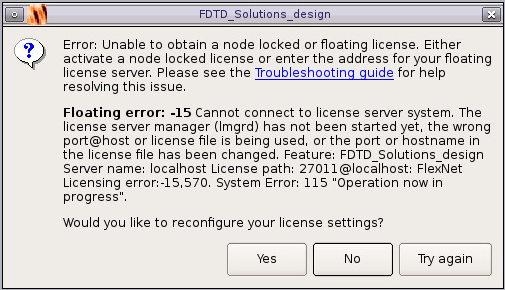
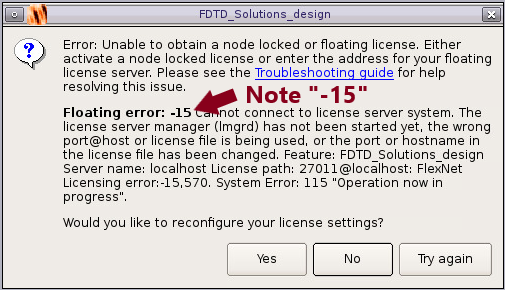
GitBook: [master] 5 pages and 20 assets modified

Changed region(s): [[0.3861, 0.2793, 0.5941, 0.4034], [0.6238, 0.2793, 0.7426, 0.3724], [0.5941, 0.2793, 0.6238, 0.3103]]

diff --git a/lawrence-hpc/lumerical-fdtd-on-lawrence-gui.md b/lawrence-hpc/lumerical-fdtd-on-lawrence-gui.md
@@ -118,8 +118,10 @@ Currently Loaded Modulefiles:
 ![](../.gitbook/assets/lumericalgui.PNG)
 
 {% hint style="info" %}
-If you do this, and receive an error like the one below, follow these steps:
+If you receive an error message "-15" or "-4", please continue
 {% endhint %}
+
+### Error -15
 
 ![](../.gitbook/assets/fdtd-error.png)
 
@@ -137,5 +139,19 @@ If it doesn't automatically pop up, try starting fdtd-solutions again.
 [user.name@usd.local@node55 ~]$ fdtd-solutions
 ```
 
- If a license error still comes up, it is possible that you don't have access to the license, or that someone else is using the license.  
+ If a license error still comes up, it is possible that you don't have access to the license.  
+
+### Error -4
+
+If the error looks like this:
+
+![](../.gitbook/assets/screenshot-208.png)
+
+The license is already in use, and the maximum number of users has been reached.  Please try again later.
+
+## Ending GUI session
+
+To end your GUI session, close the black terminal window, **not the VNC window.**
+
+![](../.gitbook/assets/assets_-lmxcw8l8a9ogs7-hqgf_-lvp6cnjtpzd69rnaaqx_-lvpsx-x3jfwnkuay-_o_vncwindow.png)
 

diff --git a/lawrence-hpc/untitled.md b/lawrence-hpc/untitled.md
@@ -1,0 +1,44 @@
+---
+description: Globus
+---
+
+# .
+
+{% hint style="danger" %}
+This site is incomplete and under construction.  Proceed at your own risk.
+{% endhint %}
+
+## Getting Started
+
+Navigate to the [Globus](https://www.globus.org/) website and click "Log In".
+
+![](../.gitbook/assets/dtn1.png)
+
+Select your organization \(University of South Dakota\) from the drop-down menu, then select Continue. 
+
+![](../.gitbook/assets/dtn2.png)
+
+Use your username and password to log in to USD’s CAS log in screen.
+
+![](../.gitbook/assets/dtn3%20%281%29.png)
+
+Globus will ask for permissions.
+
+![](../.gitbook/assets/dtn4.png)
+
+
+
+## Setting up Endpoints
+
+![](../.gitbook/assets/dtn5.png)
+
+
+
+![](../.gitbook/assets/dtn6.png)
+
+
+
+## Transferring Files
+
+
+

diff --git a/lawrence-hpc/transferring-files.md b/lawrence-hpc/transferring-files.md
@@ -26,7 +26,7 @@ From this section of the MobaXterm window, you can drag and drop files between e
 
 Cyberduck can also be used for moving files by sftp in Windows and Mac, but not Linux. You can find the Cyberduck installation [here](https://cyberduck.io/). Once installed, opening Cyberduck should return a window as follows:
 
-![](../.gitbook/assets/image%20%2812%29.png)
+![](../.gitbook/assets/image%20%2813%29.png)
 
 You will need to open a connection by clicking on the 'Open Connection' icon. This will return a window to fill in with the host information. Fill this window in as shown below \(note user.name will be your personal Lawrence username\). Be sure to choose SFTP and port 22:
 

diff --git a/lawrence-hpc/helpful-hints.md b/lawrence-hpc/helpful-hints.md
@@ -1,0 +1,24 @@
+# Helpful Hints
+
+## MobaX
+
+MobaX comes with a File Explorer-like window that is useful for viewing directories and files in a point-and-click interface.
+
+![](../.gitbook/assets/image%20%2811%29.png)
+
+It also allows the user to open files from this window in an editor.
+
+![](../.gitbook/assets/screenshot-207.png)
+
+![](../.gitbook/assets/openfile.PNG)
+
+## Slurm
+
+
+
+
+
+
+
+
+

diff --git a/SUMMARY.md b/SUMMARY.md
@@ -17,6 +17,8 @@
 * [Downloads](lawrence-hpc/downloads.md)
 * [Lumerical \(FDTD\) on Windows PC Tutorial](lawrence-hpc/lumerical-fdtd-on-windows-pc.md)
 * [Lumerical \(FDTD\) on Lawrence GUI Tutorial](lawrence-hpc/lumerical-fdtd-on-lawrence-gui.md)
+* [.](lawrence-hpc/untitled.md)
+* [Helpful Hints](lawrence-hpc/helpful-hints.md)
 
 ## Archived Information
 
